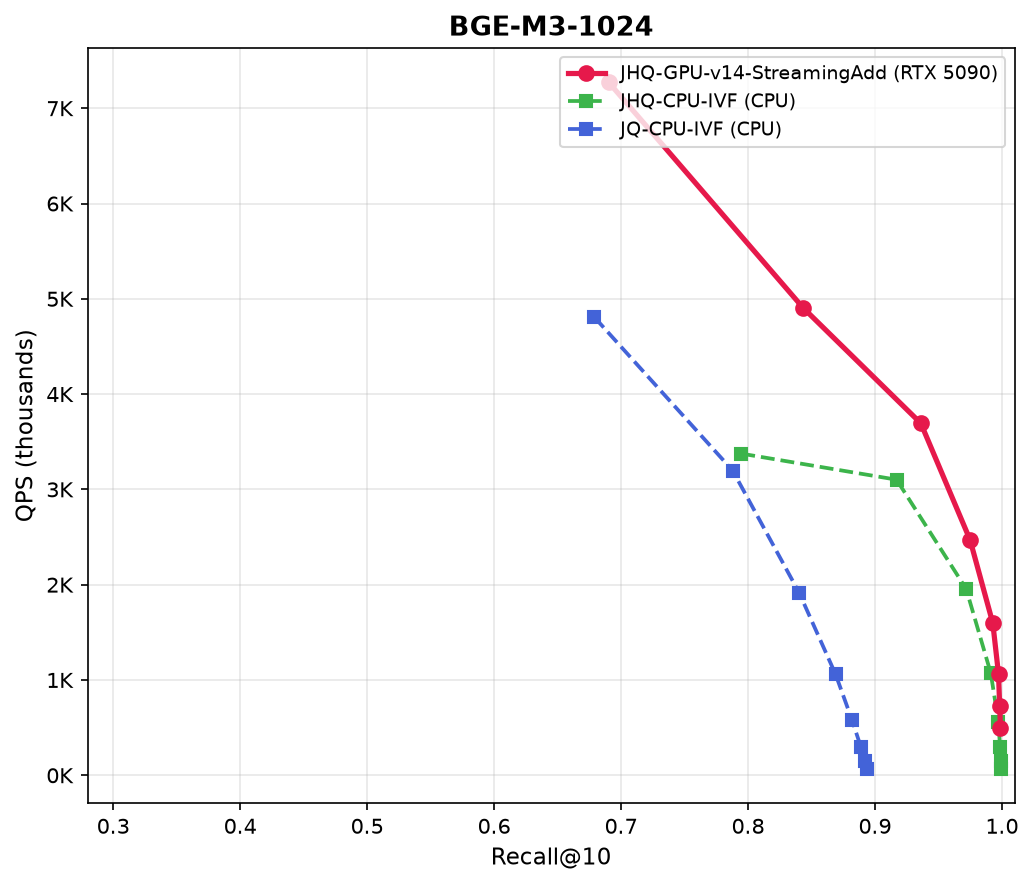
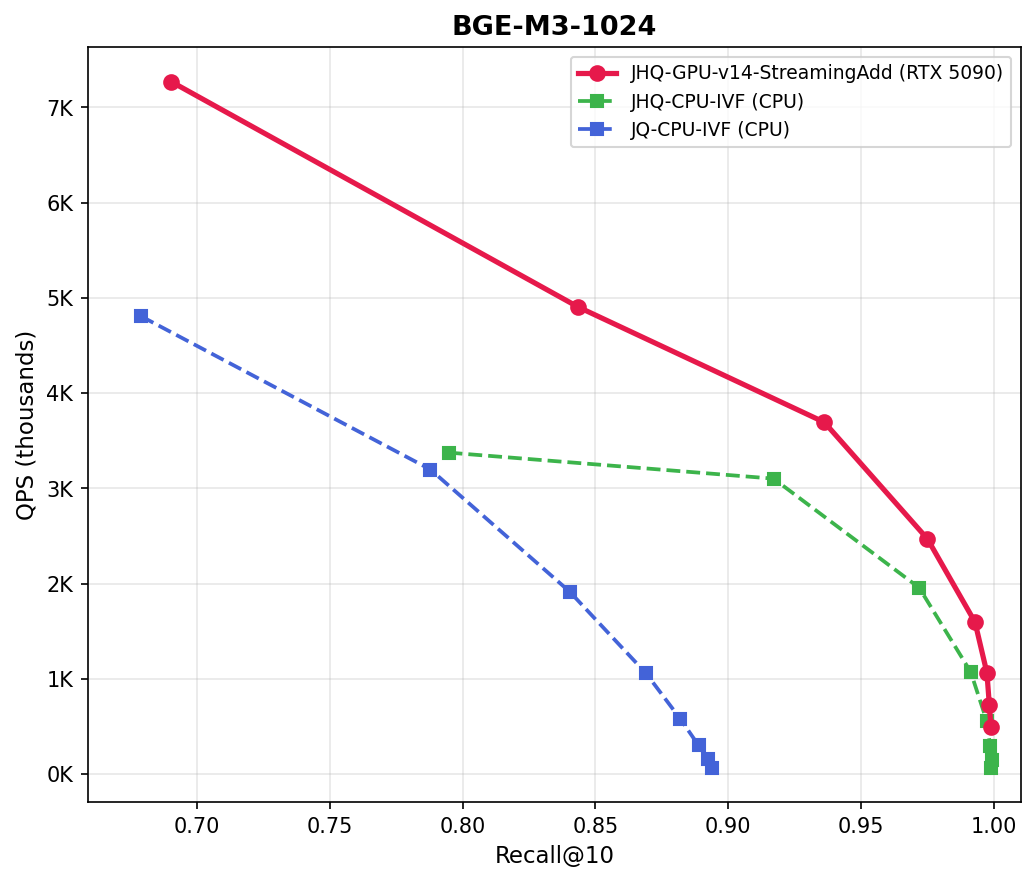
plot_v12_vs_cpu_all: size x-axis to actual data range, not a fixed 0.3 floor
The JQ-only ablation line's recall never gets close to 0.3, so the
hardcoded min(0.3, ...) left every panel with a wide blank strip on the
left with nothing plotted in it.

diff --git a/scripts/plot_v12_vs_cpu_all.py b/scripts/plot_v12_vs_cpu_all.py
@@ -81,7 +81,11 @@ def plot_one(ax, gpu_csv, cpu_csv, title):
     ax.set_title(title, fontsize=13, fontweight="bold")
     ax.set_xlabel("Recall@10", fontsize=11)
     ax.set_ylabel("QPS (thousands)", fontsize=11)
-    ax.set_xlim(min(0.3, gpu_df["recall"].min(), cpu_df["recall"].min()) - 0.02, 1.01)
+    # Size the x-axis to the actual data range instead of a fixed 0.3 floor --
+    # the JQ-only ablation line's recall never even gets close to 0.3, so a
+    # hardcoded floor just wastes the left third of every panel as blank space.
+    xmin = min(gpu_df["recall"].min(), cpu_df["recall"].min())
+    ax.set_xlim(xmin - 0.02, 1.01)
     ax.yaxis.set_major_formatter(ticker.FuncFormatter(lambda x, _: f"{x:.0f}K"))
     ax.grid(True, alpha=0.3)
     ax.legend(fontsize=9, loc="upper right")
